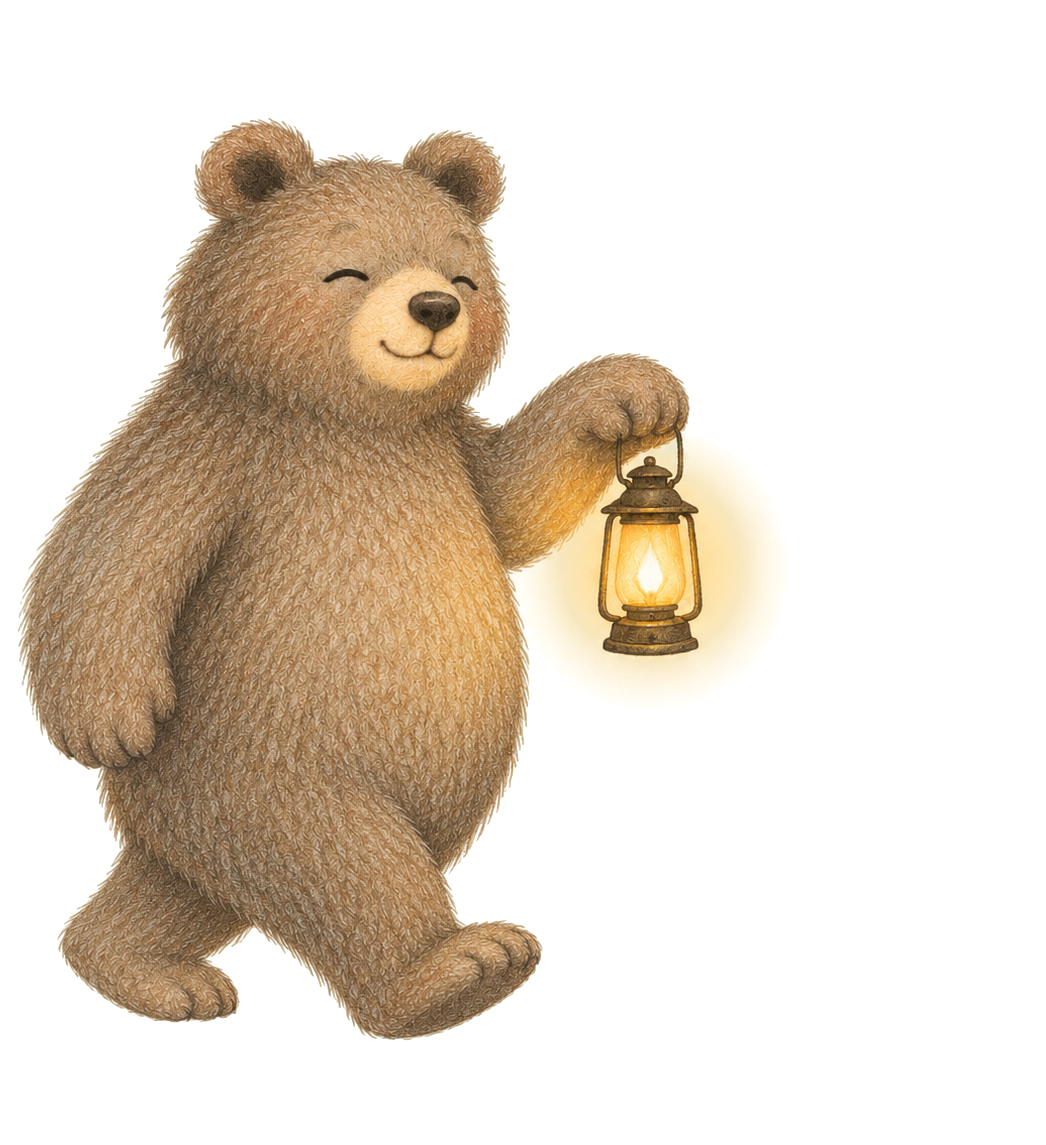
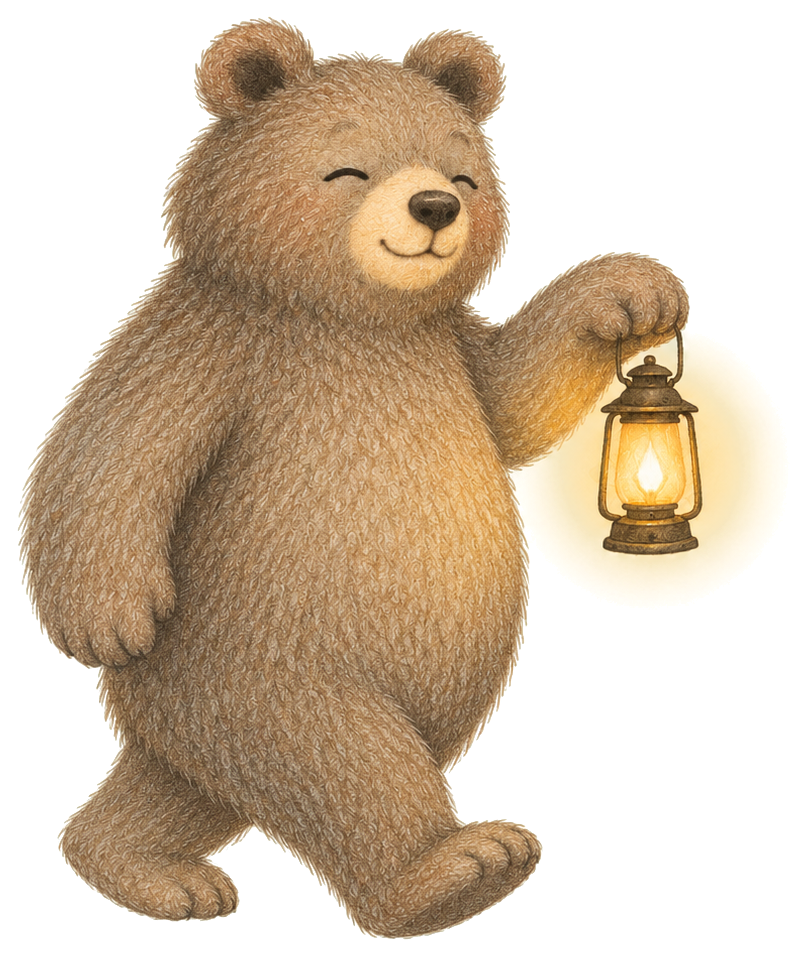
assets: 토끼 아바타 추가 (rabbit.png), 배경 제거 시 여백 트림 개선
Claude-Session: https://claude.ai/code/session_01BZsYGgJgCZUFJFReJtTQWH

diff --git a/scripts/knockout-bg.py b/scripts/knockout-bg.py
@@ -59,7 +59,7 @@ fg = np.clip(fg, 0, 255)
 out = np.dstack([fg, alpha * 255]).astype(np.uint8)
 res = Image.fromarray(out, "RGBA")
 if trim:
-    box = res.getbbox()
+    box = res.getchannel("A").point(lambda v: 255 if v > 24 else 0).getbbox()  # 거의 투명한 잔티는 무시
     pad = 16
     res = res.crop((max(0, box[0] - pad), max(0, box[1] - pad), min(w, box[2] + pad), min(h, box[3] + pad)))
 res.save(dst)

diff --git a/docs/illustration-brief.md b/docs/illustration-brief.md
@@ -21,6 +21,7 @@ Children's picture-book illustration drawn in soft colored pencil texture, hand-
 
 - 0번 캐릭터 시트: **확정** (`docs/illustrations/character-sheet.png`). 이후 그림은 전부 이 시트 기준.
 - 1번 곰: **완료** (세이지 단색 배경으로 다시 받아 `scripts/knockout-bg.py`로 배경을 걷어냄 → `public/illustrations/bear-lantern.png`).
+- 4번 토끼: **완료** (`--lo 3.5 --hi 14` → `rabbit.png`).
 - 3번 앉은 새: **완료** (세이지 배경 → `knockout-bg.py --lo 3.5 --hi 10`, 흰 몸통이 배경과 가까워 문턱을 낮춤 → `bird-perched.png`).
 - 2번 편지 새: **완료** (`public/illustrations/bird-letter.png`, 진짜 투명 PNG로 나옴 — 이 방식이 되면 굳이 단색 배경으로 안 뽑아도 됨).
 
